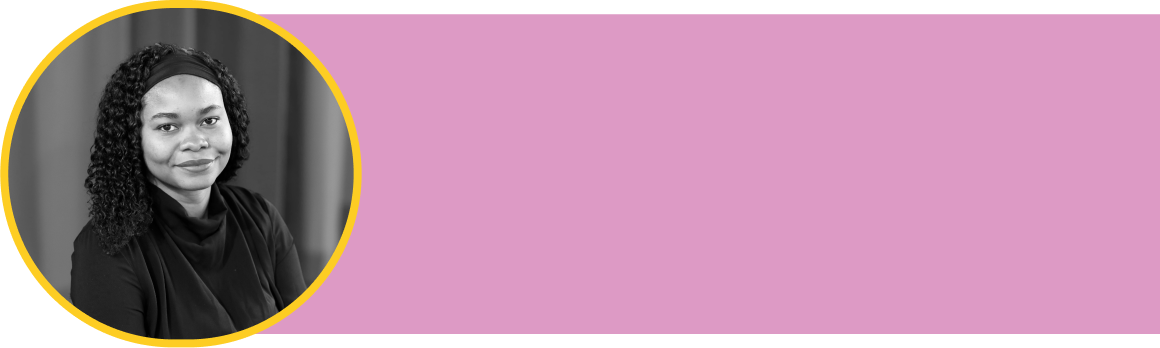
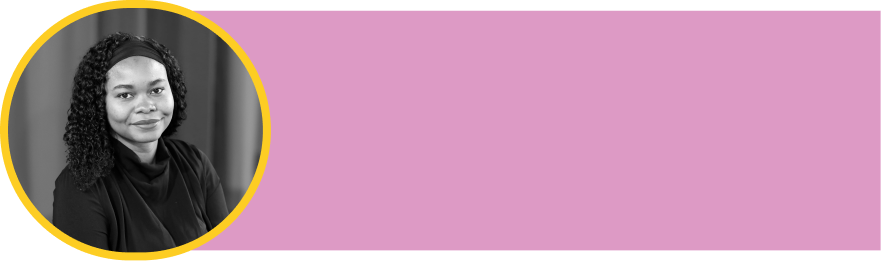
modification des images du staff, redirection vers la newsletter

diff --git a/src/routes/Accueil.jsx b/src/routes/Accueil.jsx
@@ -1,4 +1,4 @@
-import { Link } from "react-router-dom";
+// import { useNavigate } from "react-router-dom";
 import ContactForm from "../composants/ContactForm";
 import Histoire from "../assets/histoire.jpg";
 import Benevole from "../assets/benevole.webp";
@@ -13,9 +13,17 @@ import MangeVoyage from "../assets/Logo-Mange-Voyage-Aime.png";
 import Pepite from "../assets/Logo-Pepite.png";
 
 const Accueil = () => {
+  // const navigate = useNavigate();
+  // const handleRedirect = () => {
+  //   navigate("https://reunies.substack.com/");
+  // };
+
   return (
     <div>
-      <section className=' py-6 mx-6 bg-[#fdcd23] mt-12 flex justify-center rounded'>
+      <section
+        className=' py-6 mx-6 bg-[#fdcd23] mt-12 flex justify-center rounded'
+        id='histoire'
+      >
         <div>
           <div className='flex relative gap-2 px-4 '>
             <div className='w-2/5 relative flex-shrink-0'>
@@ -73,12 +81,8 @@ const Accueil = () => {
           Notre équipe de passionnée
         </h2>
         <div className='flex flex-col gap-[3]'>
-          <div className=' italic text-sm font-bold rounded ml-auto w-[75%]'>
-            <img
-              className='object-cover w-[3/4]'
-              src={Helena}
-              alt='image Helena'
-            />
+          <div className=' italic text-sm font-bold rounded ml-auto '>
+            <img className='object-cover' src={Helena} alt='image Helena' />
           </div>
           <div className='italic text-sm font-bold rounded  mr-auto'>
             <img className='object-cover' src={Olga} alt='image Olga' />
@@ -91,41 +95,6 @@ const Accueil = () => {
           </div>
         </div>
       </section>
-      {/* <section>
-        <h2 className='text-2xl font-bold my-12 text-[#bc378c] text-center tracking-wide'>
-          Notre équipe de passionnée
-        </h2>
-        <div className='flex flex-col gap-4'>
-          <div className='italic text-sm font-bold rounded ml-auto w-[75%]'>
-            <img
-              className='object-cover w-full rounded'
-              src={Helena}
-              alt='Image Helena'
-            />
-          </div>
-          <div className='italic text-sm font-bold rounded mr-auto w-[75%]'>
-            <img
-              className='object-cover w-full rounded'
-              src={Olga}
-              alt='Image Olga'
-            />
-          </div>
-          <div className='italic text-sm font-bold rounded ml-auto w-[75%]'>
-            <img
-              className='object-cover w-full rounded'
-              src={Dora}
-              alt='Image Dora'
-            />
-          </div>
-          <div className='italic text-sm font-bold rounded mr-auto w-[75%]'>
-            <img
-              className='object-cover w-full rounded'
-              src={Clarisse}
-              alt='Image Clarisse'
-            />
-          </div>
-        </div>
-      </section> */}
 
       <section
         className='h-[400px] bg-fixed  bg-contain bg-no-repeat  bg-center flex justify-center items-center text-white text-center mt-4'
@@ -134,7 +103,7 @@ const Accueil = () => {
         }}
       ></section>
 
-      <section className=' px-4 mx-auto '>
+      <section className=' px-4 mx-auto' id='actions'>
         <div className='flex'>
           <div className='flex flex-col w-3/5  '>
             <h2 className='text-2xl pt-12 font-bold text-start text-[#bc378c]  tracking-wide'>
@@ -194,11 +163,14 @@ const Accueil = () => {
         <h2 className='text-2xl font-semi-bold  text-[#ffffff] tracking-wide'>
           Inscrivez vous à notre newsletter !
         </h2>
-        <Link to={"/"}>
-          <button className='bg-[#ffffff] text-[#fdcd23] mt-4 py-2 px-10 rounded font-semi-bold'>
-            S'inscrire
-          </button>
-        </Link>
+
+        <a
+          href='https://reunies.substack.com/'
+          target='blank'
+          className='bg-[#ffffff] text-[#fdcd23] mt-4 py-2 px-10 rounded font-semi-bold'
+        >
+          S'inscrire
+        </a>
       </section>
       <section className='w-3/5 px-4 mx-auto py-10 mt-10'></section>
       <ContactForm />

diff --git a/src/composants/Header.jsx b/src/composants/Header.jsx
@@ -1,9 +1,14 @@
-import { Link } from "react-router-dom";
+import { Link, useNavigate } from "react-router-dom";
 import { useState } from "react";
 import Logo from "../assets/logo.svg";
 
 const Header = ({ token, username, setUser }) => {
   const [isMenuOpen, setIsMenuOpen] = useState(false);
+  const navigate = useNavigate();
+
+  const handleRedirect = () => {
+    navigate("/connexion");
+  };
 
   return (
     <header>
@@ -40,11 +45,14 @@ const Header = ({ token, username, setUser }) => {
         <nav className='hidden md:flex space-x-4'>
           {!token ? (
             <>
-              <Link to='/reseautage'>Réseautage</Link>
-              <Link to='/histoire'>Notre histoire</Link>
-              <Link to='/actions'>Nos actions</Link>
-              <Link to='/contact'>Contact</Link>
-              <button className='bg-[#bc378c] text-[#ffffff] px-4 py-2 rounded'>
+              <Link to='/connexion'>Réseautage</Link>
+              <a href='/#histoire'>Notre histoire</a>
+              <a href='#actions'>Nos actions</a>
+              <a href='#contact'>Contact</a>
+              <button
+                onClick={handleRedirect}
+                className='bg-[#bc378c] text-[#ffffff] px-4 py-2 rounded'
+              >
                 Se connecter
               </button>
             </>

diff --git a/src/composants/Layout.jsx b/src/composants/Layout.jsx
@@ -1,7 +1,13 @@
+import { useNavigate } from "react-router-dom";
 import Header from "./Header";
+import Footer from "./Footer";
 import Hero from "../assets/hero.webp";
 
 const Layout = ({ children }) => {
+  const navigate = useNavigate();
+  const handleRedirect = () => {
+    navigate("/connexion");
+  };
   return (
     <div>
       <Header />
@@ -11,7 +17,7 @@ const Layout = ({ children }) => {
           backgroundImage: `url(${Hero})`,
         }}
       >
-        <div className='bg-black bg-opacity-40 p-8 rounded-md'>
+        <div className=' p-8 rounded-md'>
           <h1 className='text-4xl md:text-5xl font-bold text-[#fdcd23]'>
             Réunies
           </h1>
@@ -19,13 +25,17 @@ const Layout = ({ children }) => {
             pour Entreprendre au Féminin
           </p>
           <p className='mt-4 text-3xl font-bold'>au Féminin</p>
-          <button className='bg-[#fdcd23] text-[#ffffff] px-8 py-2 rounded mt-6 font-bold'>
+          <button
+            onClick={handleRedirect}
+            className='bg-[#fdcd23] text-[#ffffff] px-8 py-2 rounded mt-6 font-bold'
+          >
             Réseauter
           </button>
         </div>
       </section>
 
       <div>{children}</div>
+      <Footer />
     </div>
   );
 };

diff --git a/src/App.jsx b/src/App.jsx
@@ -20,12 +20,14 @@ function App() {
   const [username, setUsername] = useState(Cookies.get("username") || null);
   const setUser = (data) => {
     if (data) {
+      console.log(data);
       const { token, username } = data;
       setToken(token);
       setUsername(username);
       Cookies.set("token", token, { expires: 14 });
       Cookies.set("username", username, { expires: 14 });
-      console.log(token.username);
+      // console.log(token);
+      // console.log(username);
     } else {
       setToken(null);
       setUsername(null);
@@ -59,8 +61,12 @@ function App() {
         <Route
           path='/inscription'
           element={
-            <Layout setUser={setUser} token={token} username={username}>
-              <Inscription />
+            <Layout>
+              <Inscription
+                setUser={setUser}
+                token={token}
+                username={username}
+              />
             </Layout>
           }
         />

diff --git a/src/composants/ContactForm.jsx b/src/composants/ContactForm.jsx
@@ -1,10 +1,11 @@
 const ContactForm = () => {
   return (
     <form
+      id='contact'
       name='contact-reunies'
       method='POST'
       data-netlify='true'
-      className='max-w-md mx-auto bg-white p-6 rounded-md mb-4'
+      className='max-w-md mx-auto bg-white p-6 rounded-md mb-[120px]'
       style={{ boxShadow: "0 10px 15px rgba(0, 0, 0, 0.2)" }}
     >
       <input type='hidden' name='form-name' value='contact-reunies' />

diff --git a/src/routes/Inscription.jsx b/src/routes/Inscription.jsx
@@ -118,7 +118,7 @@ const Inscription = ({ setUser }) => {
       if (response.data.token) {
         setUser(response.data.token);
         alert("Compte créé avec succès !");
-        navigate("/connexion");
+        navigate("/");
       }
     } catch (error) {
       console.log(error);
